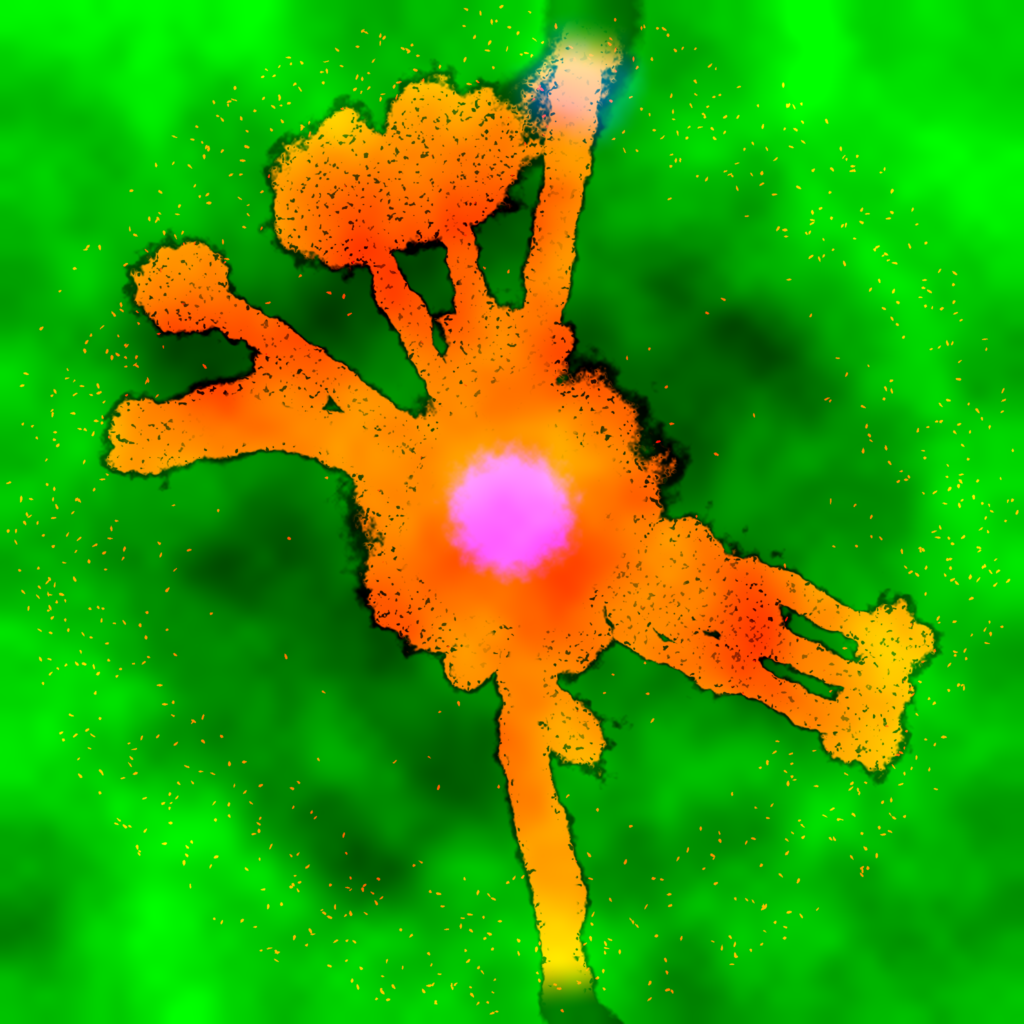
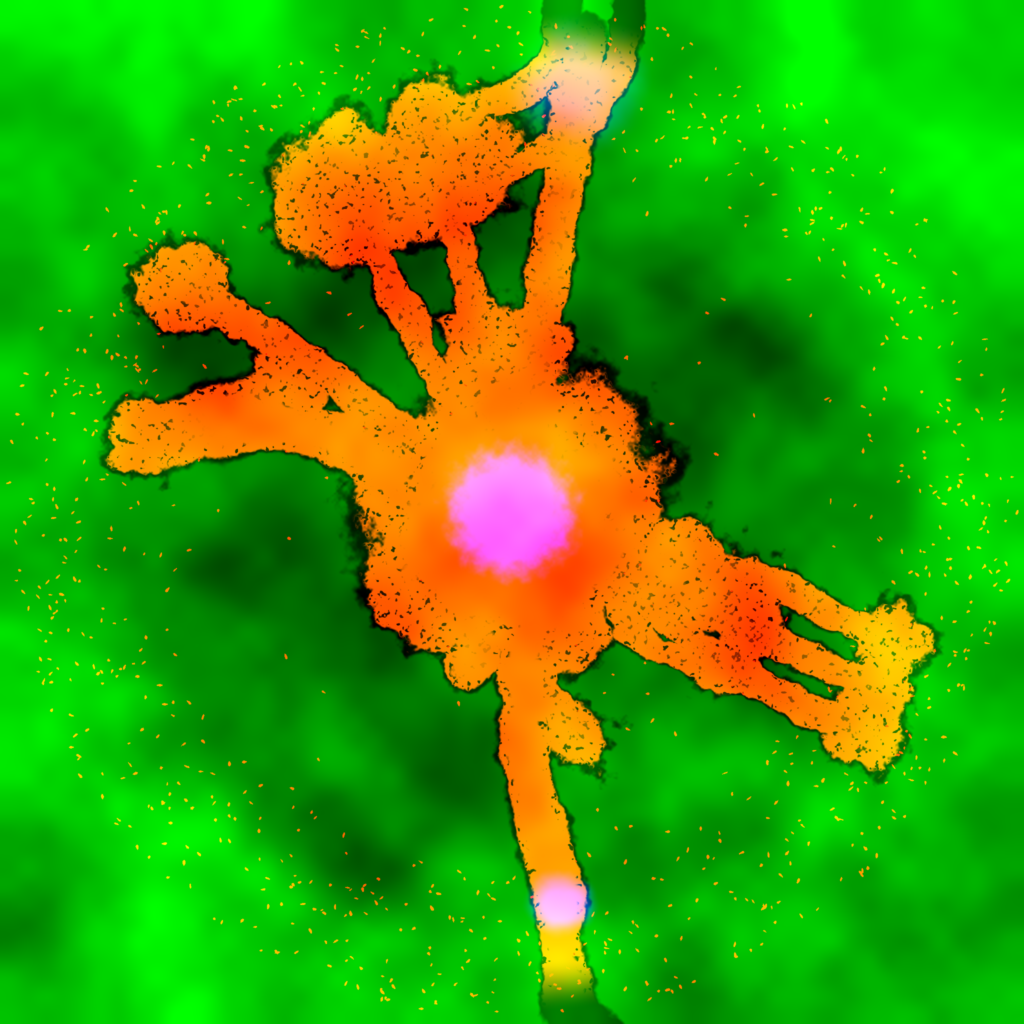
Canopy camp: ground rebake for the new terrain (two ruts with a grass strip, a wet dip on the glade path, pebbles at the path edges)
The light bake also stands the deadwood at its terrain height (layout y) next time it runs.

Changed region(s): [[0.4688, 0.0, 0.6562, 0.1875], [0.5, 0.8438, 0.5938, 0.9375]]

diff --git a/props/camp/bake_camp_lightmap.py b/props/camp/bake_camp_lightmap.py
@@ -242,12 +242,12 @@ import json as _json
 _lay = os.path.join(ROOT, "props", "shadow", "layout_picked.json")
 for d in (_json.load(open(_lay)).get("deadwood", []) if os.path.exists(_lay) else []):
     if d["name"] == "FallenLog":
-        bpy.ops.mesh.primitive_cylinder_add(vertices=8, radius=d["r"], depth=d["L"], location=B(d["x"], d["r"], d["z"]), rotation=(0, math.pi / 2, 0))
+        bpy.ops.mesh.primitive_cylinder_add(vertices=8, radius=d["r"], depth=d["L"], location=B(d["x"], d.get("y", 0) + d["r"], d["z"]), rotation=(0, math.pi / 2, 0))
         o = bpy.context.object; o.rotation_mode = "YXZ"; o.rotation_euler = (0, math.pi / 2, d["yaw"])   # lie along x, then yaw
     elif d["name"] == "Stump":
-        bpy.ops.mesh.primitive_cylinder_add(vertices=9, radius=d["r"], depth=d["h"], location=B(d["x"], d["h"] / 2, d["z"]))
+        bpy.ops.mesh.primitive_cylinder_add(vertices=9, radius=d["r"], depth=d["h"], location=B(d["x"], d.get("y", 0) + d["h"] / 2, d["z"]))
     elif d["name"] == "DeadTrunk":
-        bpy.ops.mesh.primitive_cylinder_add(vertices=7, radius=0.27, depth=d["H"], location=B(d["x"], d["H"] / 2, d["z"]))
+        bpy.ops.mesh.primitive_cylinder_add(vertices=7, radius=0.27, depth=d["H"], location=B(d["x"], d.get("y", 0) + d["H"] / 2, d["z"]))
     else:
         continue
     bpy.context.object.name = d["name"]; jeep.append(bpy.context.object)   # with the jeep: an occluder, removed before export
